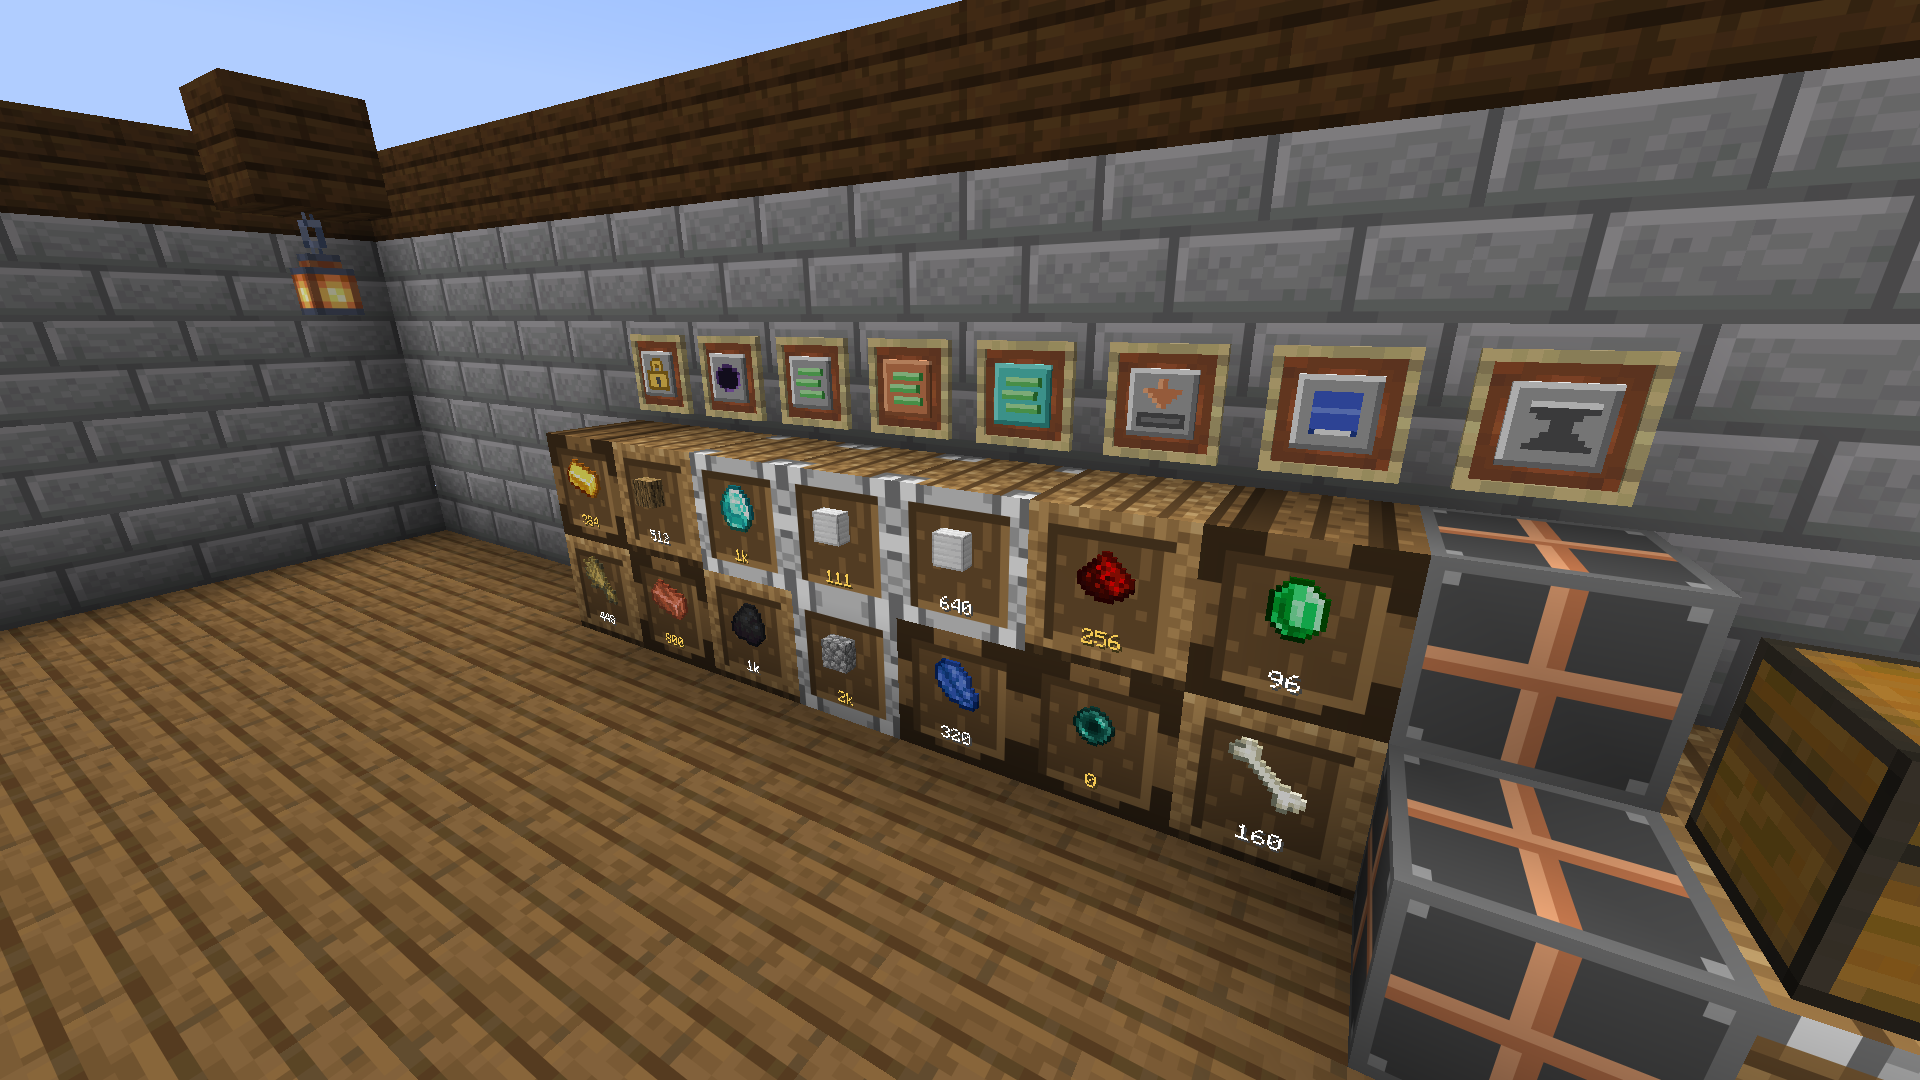
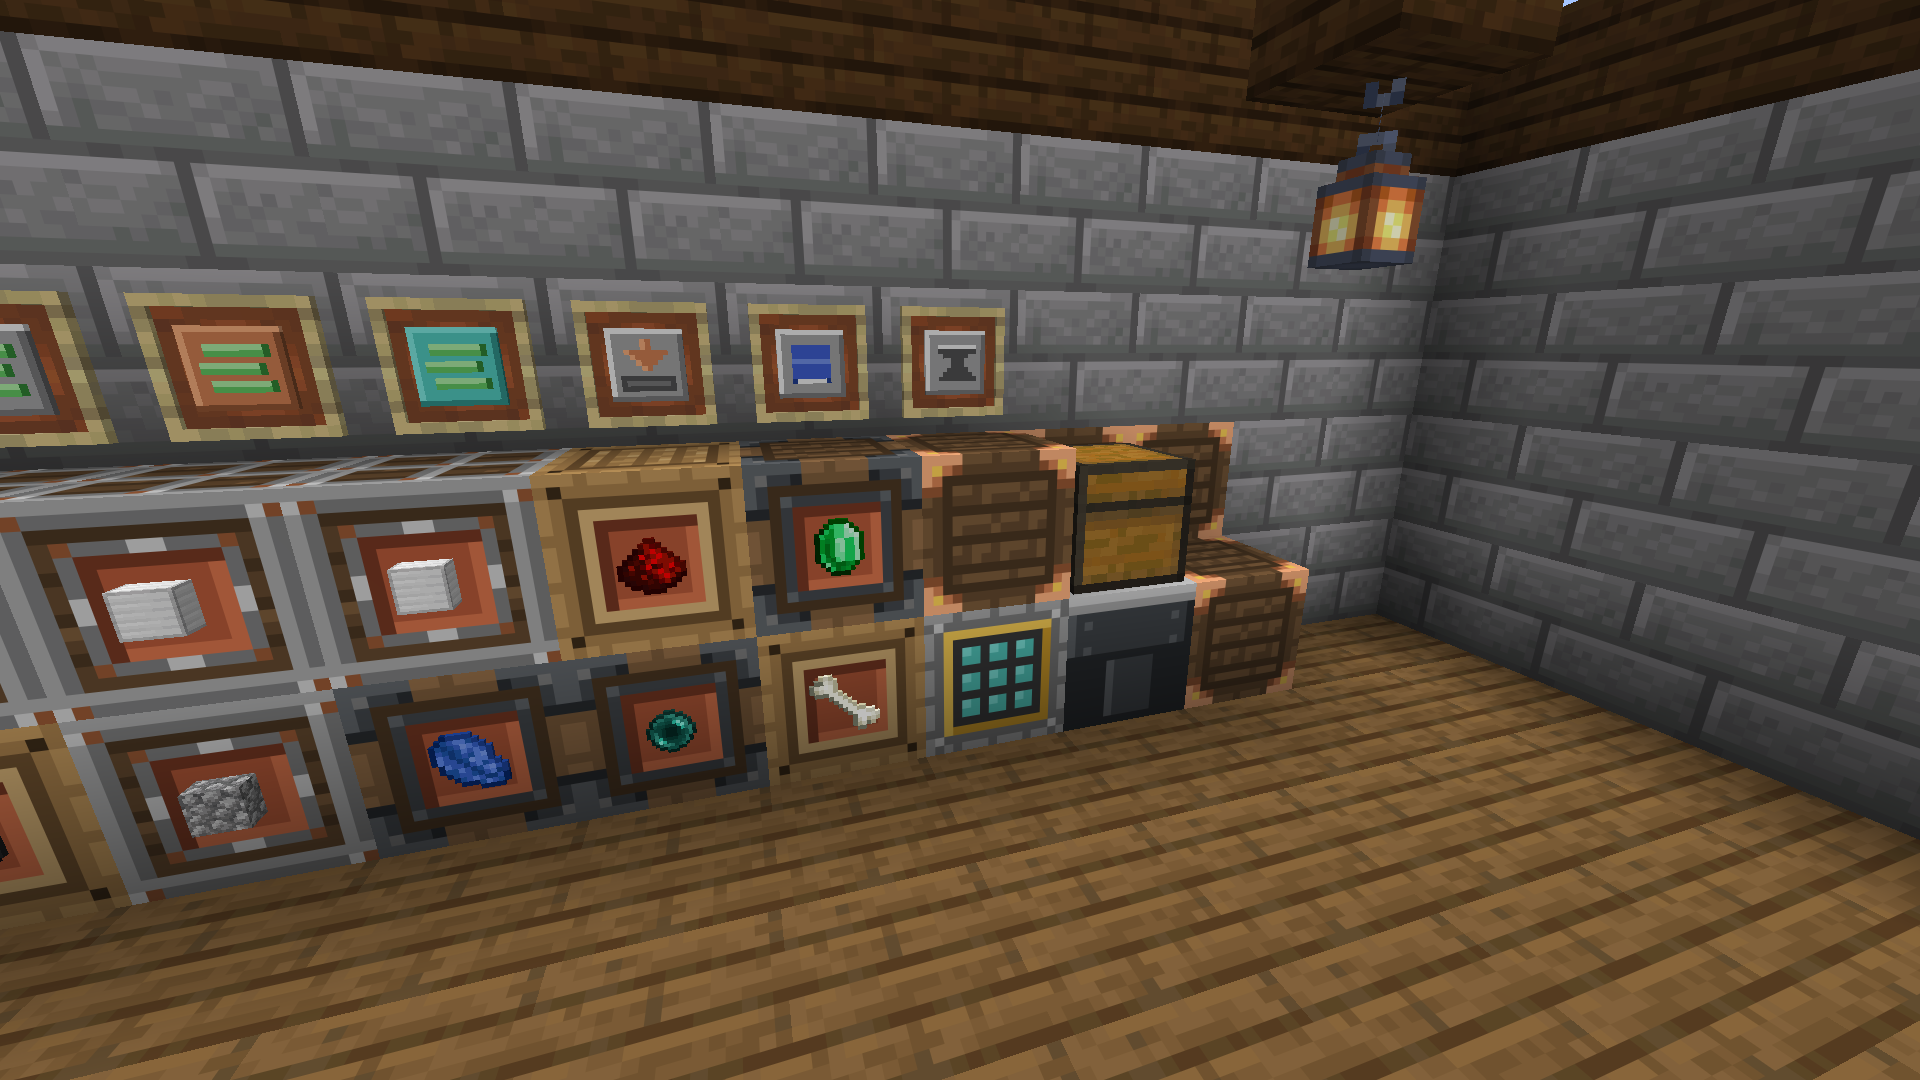
Re-shoot the Modrinth gallery with the devices in view, and let it replace pictures
The storage-room scene hid the deposit box and the interface box behind each other and a chest.
The devices now continue the bottom row along the wall so both fronts face the room, the chest
feeds the deposit box from above, and a connection block stands in the open at the end. The seven
gallery pictures are re-shot with the new crate and network skins.

A gallery entry's picture cannot be changed through the API, only its text, so gallery.py gains
--replace, which takes down an entry whose title the manifest names before sending the manifest's
picture, and the Modrinth workflow gains the matching input.

diff --git a/src/testmodClient/java/dev/fricker/lodestore/testmod/client/MarketingScreenshotsClientTest.java b/src/testmodClient/java/dev/fricker/lodestore/testmod/client/MarketingScreenshotsClientTest.java
@@ -86,8 +86,8 @@ public class MarketingScreenshotsClientTest implements FabricClientGameTest {
 			context.waitTicks(80);
 			shot(context, "modrinth-crates-close");
 
-			// The network corner: deposit box under its chest, interface box, connection blocks.
-			singleplayer.getServer().runCommand("tp @p 3.6 " + (Y + 1.4) + " 4.6 150 18");
+			// The network end of the row: interface box, deposit box under its chest, connection blocks.
+			singleplayer.getServer().runCommand("tp @p 3.0 " + (Y + 1.0) + " 4.8 198 16");
 			context.waitTicks(80);
 			shot(context, "modrinth-network");
 
@@ -123,12 +123,12 @@ public class MarketingScreenshotsClientTest implements FabricClientGameTest {
 			context.waitTicks(20);
 
 			// The interface box's view of the whole room.
-			singleplayer.getServer().runCommand("tp @p 5.5 " + (Y + 0.0) + " 3.5 180 0");
+			singleplayer.getServer().runCommand("tp @p 4.5 " + (Y + 0.0) + " 3.5 180 0");
 			context.waitTicks(40);
 			singleplayer.getServer().runOnServer(server -> {
 				ServerPlayer player = server.getPlayerList().getPlayers().getFirst();
 
-				if (server.overworld().getBlockEntity(new BlockPos(5, Y, 0)) instanceof InterfaceBoxBlockEntity box) {
+				if (server.overworld().getBlockEntity(new BlockPos(4, Y, 0)) instanceof InterfaceBoxBlockEntity box) {
 					player.openMenu(box);
 				}
 			});
@@ -189,20 +189,22 @@ public class MarketingScreenshotsClientTest implements FabricClientGameTest {
 			level.setBlockAndUpdate(new BlockPos(x, Y + 4, 1), trim);
 		}
 
-		// The network runs inside the wall, behind both rows, and out to the devices.
-		for (int x = -3; x <= 4; x++) {
+		// The network runs inside the wall, behind both rows, and the devices continue the bottom
+		// row along it so both fronts face the room: the interface box, then the deposit box with
+		// a chest feeding it from above, then a connection block in the open to show what carries
+		// the network, with another over the interface box.
+		for (int x = -3; x <= 6; x++) {
 			for (int y = Y; y <= Y + 1; y++) {
 				level.setBlockAndUpdate(new BlockPos(x, y, -1), LodestoreBlocks.CONNECTION_BLOCK.defaultBlockState());
 			}
 		}
 
-		level.setBlockAndUpdate(new BlockPos(4, Y, 0), LodestoreBlocks.CONNECTION_BLOCK.defaultBlockState());
-		level.setBlockAndUpdate(new BlockPos(4, Y, 1), LodestoreBlocks.CONNECTION_BLOCK.defaultBlockState());
-		level.setBlockAndUpdate(new BlockPos(4, Y + 1, 0), LodestoreBlocks.CONNECTION_BLOCK.defaultBlockState());
-		level.setBlockAndUpdate(new BlockPos(5, Y, 0), LodestoreBlocks.INTERFACE_BOX.defaultBlockState()
+		level.setBlockAndUpdate(new BlockPos(4, Y, 0), LodestoreBlocks.INTERFACE_BOX.defaultBlockState()
 				.setValue(InterfaceBoxBlock.FACING, Direction.SOUTH));
-		level.setBlockAndUpdate(new BlockPos(5, Y, 1), LodestoreBlocks.DEPOSIT_BOX.defaultBlockState());
-		level.setBlockAndUpdate(new BlockPos(5, Y + 1, 1), Blocks.CHEST.defaultBlockState());
+		level.setBlockAndUpdate(new BlockPos(4, Y + 1, 0), LodestoreBlocks.CONNECTION_BLOCK.defaultBlockState());
+		level.setBlockAndUpdate(new BlockPos(5, Y, 0), LodestoreBlocks.DEPOSIT_BOX.defaultBlockState());
+		level.setBlockAndUpdate(new BlockPos(5, Y + 1, 0), Blocks.CHEST.defaultBlockState());
+		level.setBlockAndUpdate(new BlockPos(6, Y, 0), LodestoreBlocks.CONNECTION_BLOCK.defaultBlockState());
 
 		// Top row: the reinforced crate the screen opens in the middle.
 		stocked(level, new BlockPos(-3, Y + 1, 0), LodestoreBlocks.STURDY_CRATE, Items.GOLD_INGOT, 384, true);
@@ -222,7 +224,7 @@ public class MarketingScreenshotsClientTest implements FabricClientGameTest {
 		lockedAndEmpty(level, new BlockPos(2, Y, 0), LodestoreBlocks.STURDY_CRATE, Items.ENDER_PEARL);
 		stocked(level, new BlockPos(3, Y, 0), LodestoreBlocks.BASIC_CRATE, Items.BONE, 160, false);
 
-		// The eight upgrades in a row of frames above the crates.
+		// The eight upgrades in a row of frames above the crates and the devices.
 		List<Item> upgrades = List.of(LodestoreItems.LOCK_UPGRADE, LodestoreItems.VOID_UPGRADE,
 				LodestoreItems.STACK_UPGRADE, LodestoreItems.STACK_UPGRADE_2, LodestoreItems.STACK_UPGRADE_3,
 				LodestoreItems.COMPRESS_UPGRADE, LodestoreItems.DISENCHANT_UPGRADE, LodestoreItems.REPAIR_UPGRADE);

diff --git a/tools/modrinth/gallery.py b/tools/modrinth/gallery.py
@@ -6,8 +6,9 @@
 The directory's `gallery.json` lists the images in the order they should appear, each with the
 title and description Modrinth shows under it. Idempotent by title: an image whose title the
 project's gallery already has is skipped, so the whole set can be re-sent after adding one.
-Replacing a picture means removing the old one on Modrinth first, or giving the new one a new
-title — a gallery entry's image cannot be changed through the API, only its text.
+With --replace, an entry whose title the manifest names is taken down first and the manifest's
+picture sent in its place — a gallery entry's image cannot be changed through the API, only its
+text, so a re-shot picture under the same title has to go up as a new entry.
 
 The images themselves come from the client screenshot test, MarketingScreenshotsClientTest,
 copied in from build/clientGametest/screenshots/ once they have been looked at.
@@ -57,6 +58,8 @@ def main():
     parser.add_argument("--dir", default="docs/modrinth/gallery", type=pathlib.Path)
     parser.add_argument("--project", default=os.environ.get("MODRINTH_PROJECT") or "lodestore",
                         help="the Modrinth project slug or id; defaults to $MODRINTH_PROJECT, then 'lodestore'")
+    parser.add_argument("--replace", action="store_true",
+                        help="remove a gallery entry whose title the manifest names before sending the manifest's picture")
     parser.add_argument("--dry-run", action="store_true", help="print what would be sent and stop")
     args = parser.parse_args()
 
@@ -77,12 +80,18 @@ def main():
         sys.exit("MODRINTH_TOKEN is not set")
 
     project = request("GET", f"/project/{args.project}", token)
-    present = {item.get("title") for item in project.get("gallery", [])}
+    present = {item.get("title"): item.get("url") for item in project.get("gallery", [])}
 
     for ordering, entry in enumerate(manifest):
         if entry["title"] in present:
-            print(f"gallery already has '{entry['title']}'; skipped")
-            continue
+            if not args.replace:
+                print(f"gallery already has '{entry['title']}'; skipped")
+                continue
+
+            # A gallery entry's picture cannot be changed in place, only its text, so a new
+            # picture under an old title means taking the old entry down first.
+            request("DELETE", f"/project/{project['id']}/gallery?{urllib.parse.urlencode({'url': present[entry['title']]})}", token)
+            print(f"removed the old '{entry['title']}'")
 
         image = args.dir / entry["file"]
         query = urllib.parse.urlencode({
